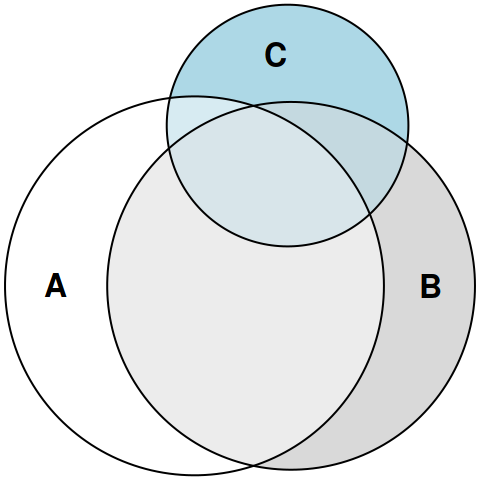
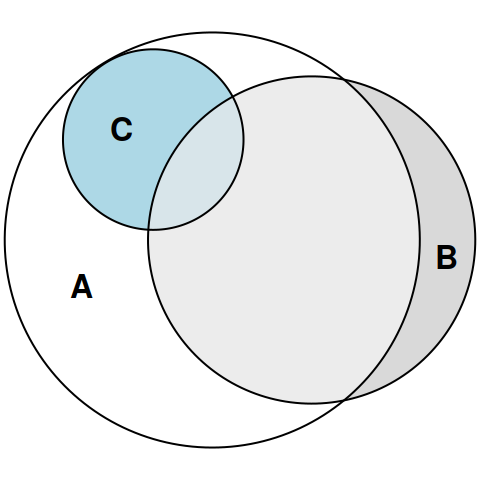
Update blog post for eulerr with correct usage

diff --git a/content/post/2016-10-19-introducing-eulerr/index.html b/content/post/2016-10-19-introducing-eulerr/index.html
@@ -84,16 +84,16 @@ fit2 &lt;- euler(mat)</code></pre>
 <p>We inspect our results by printing the eulerr object</p>
 <pre class="r"><code>fit2</code></pre>
 <pre><code>##       original fitted residuals regionError
-## A           10 10.025    -0.025       0.003
-## B            7  7.040    -0.040       0.003
-## C            5  5.049    -0.049       0.002
-## A&amp;B         15 14.966     0.034       0.003
-## A&amp;C          1  0.563     0.437       0.010
-## B&amp;C          2  1.777     0.223       0.005
-## A&amp;B&amp;C        5  5.071    -0.071       0.003
+## A           13     13         0       0.008
+## B            4      4         0       0.002
+## C            0      0         0       0.000
+## A&amp;B         17     17         0       0.010
+## A&amp;C          5      5         0       0.003
+## B&amp;C          1      0         1       0.024
+## A&amp;B&amp;C        2      2         0       0.001
 ## 
-## diagError: 0.01 
-## stress:    0.001</code></pre>
+## diagError: 0.024 
+## stress:    0.002</code></pre>
 <p>or directly access and plot the residuals.</p>
 <pre class="r"><code># Cleveland dot plot of the residuals
 dotchart(resid(fit2))
@@ -114,7 +114,7 @@ by the total sums of squares:
 <span class="math display">\[\frac{\sum_{i=1}^n (f_i - y_i)^2}{\sum_{i=1}^n (y_i - \bar{y})^2}\]</span></p>
 <p>We fetch it from the <code>stress</code> attribute of the <code>eulerr</code> object.</p>
 <pre class="r"><code>fit2$stress</code></pre>
-<pre><code>## [1] 0.0005865</code></pre>
+<pre><code>## [1] 0.001984127</code></pre>
 <p>We can now be confident that eulerr provides a reasonable representation of
 our input. Were it otherwise, we would do best to stop here and look for another
 way to visualize our data. (I suggest the excellent
@@ -128,7 +128,7 @@ highly customizable, with eulerr.</p>
 
 # Change fill colors, border type (remove) and fontface.
 plot(fit2,
-     fills = list(col = c(&quot;dodgerblue4&quot;, &quot;darkgoldenrod1&quot;, &quot;cornsilk4&quot;)),
+     fills = list(fill = c(&quot;dodgerblue4&quot;, &quot;darkgoldenrod1&quot;, &quot;cornsilk4&quot;)),
      edges = list(lty = 1:3),
      labels = list(font = 2))</code></pre>
 <div class="figure"><span id="fig:eulerr-plot"></span>
